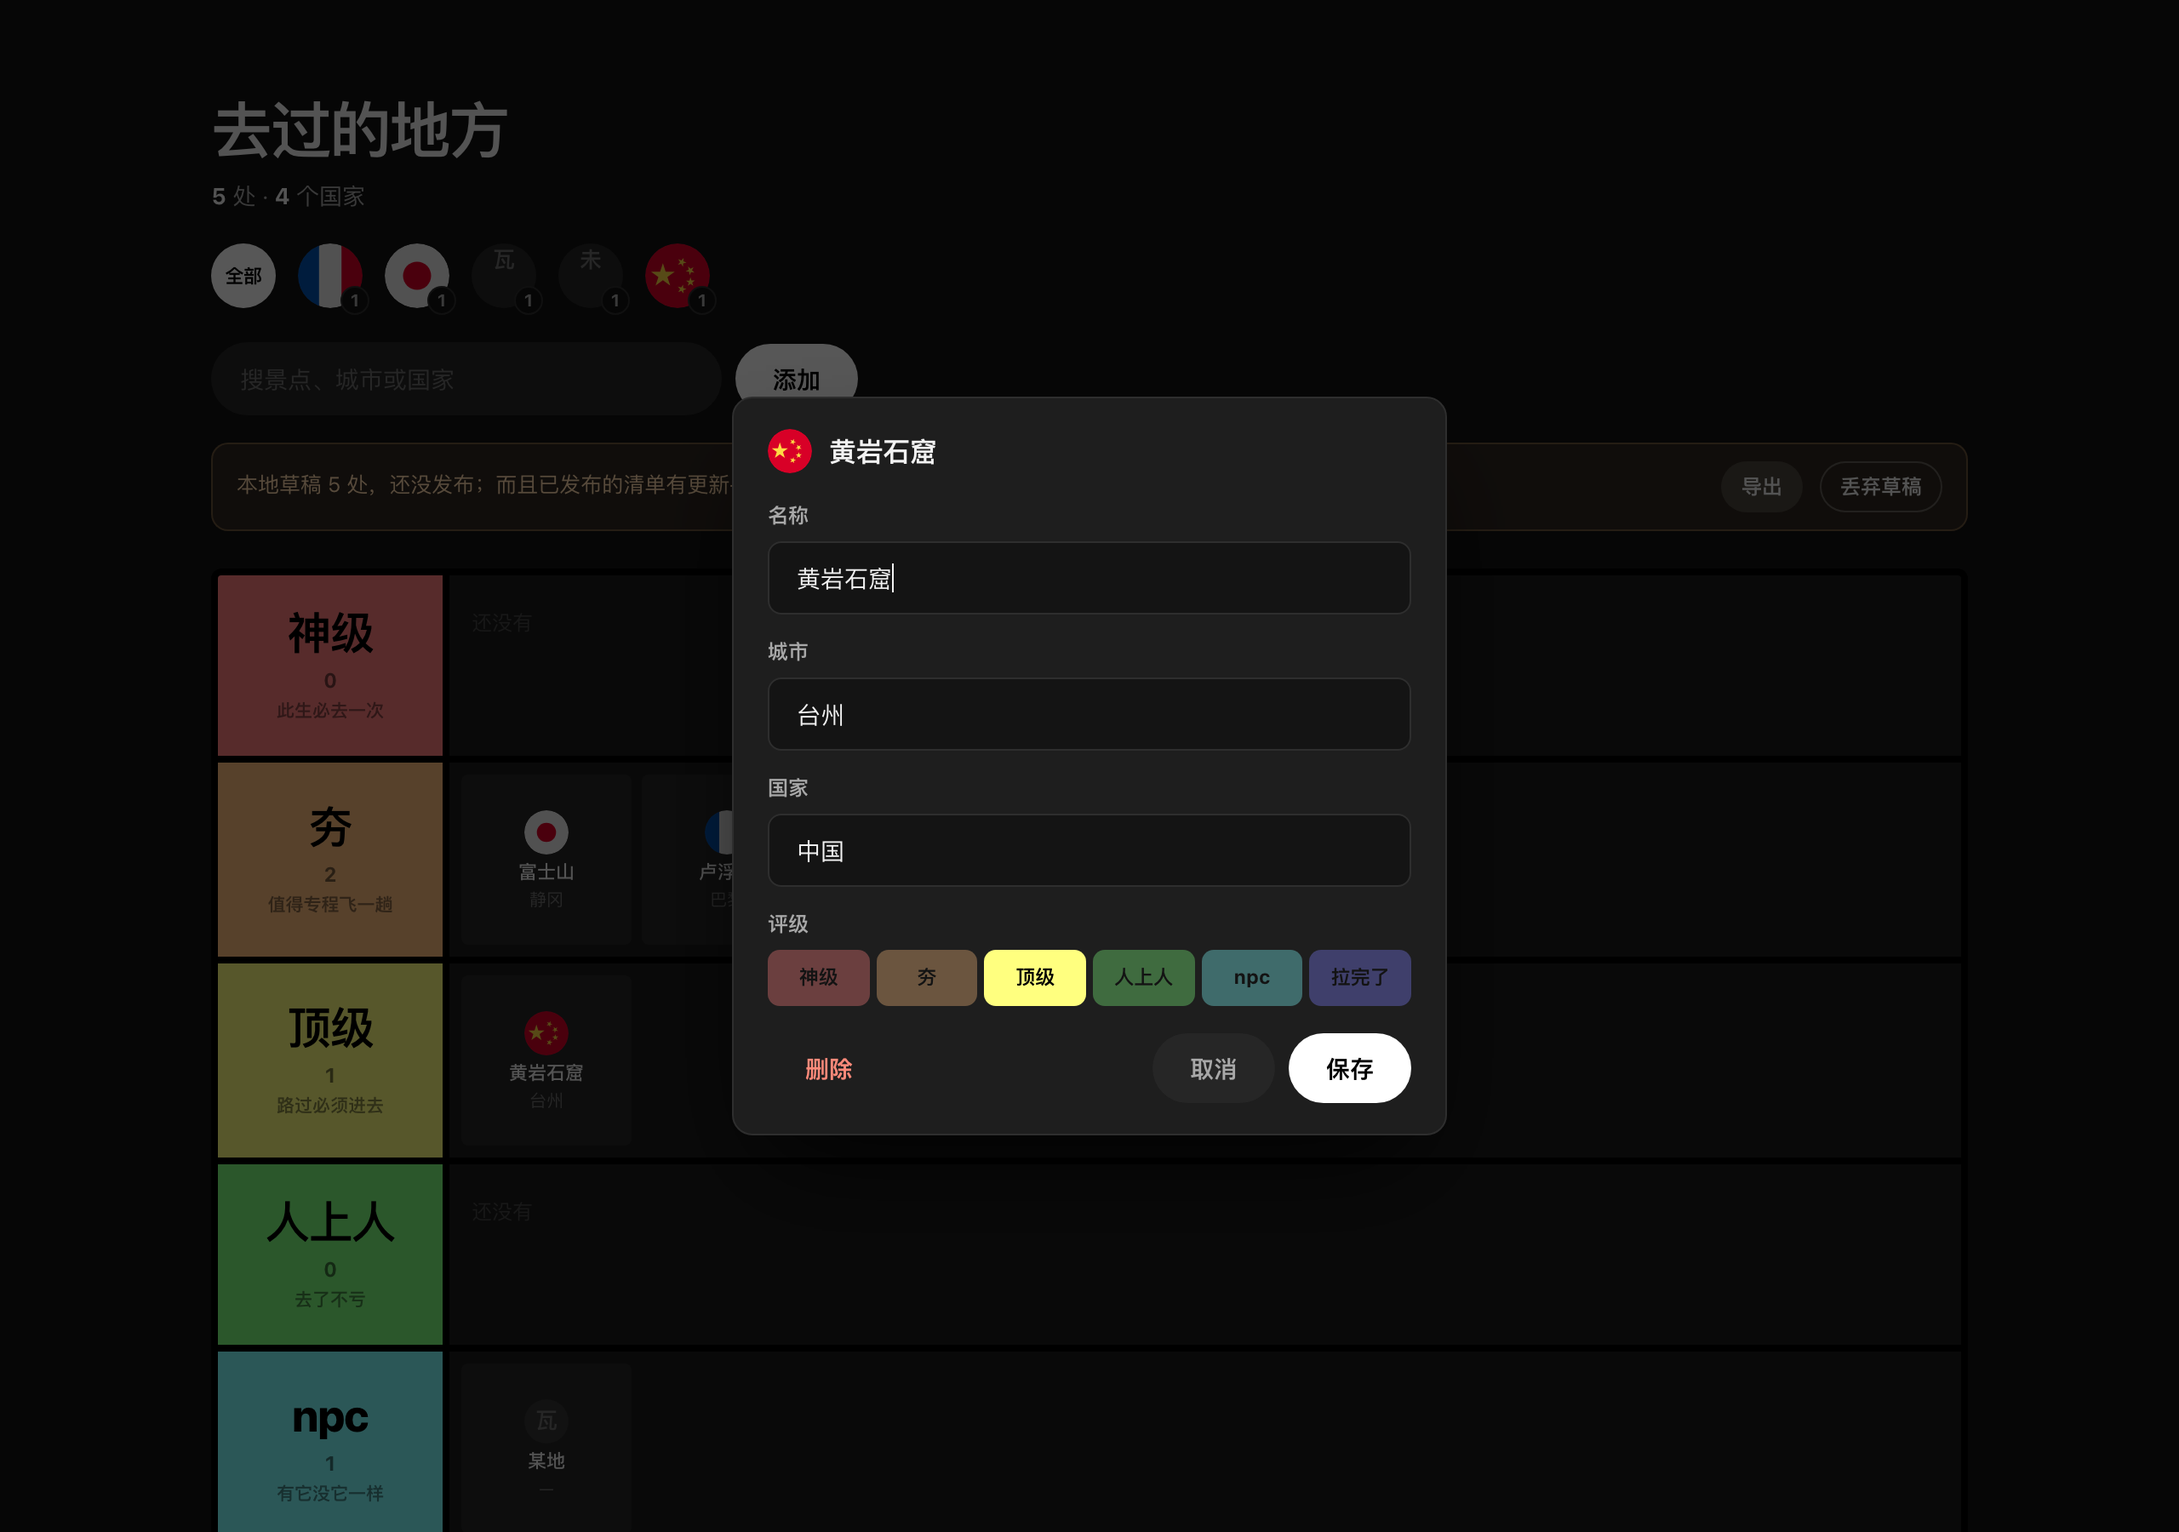
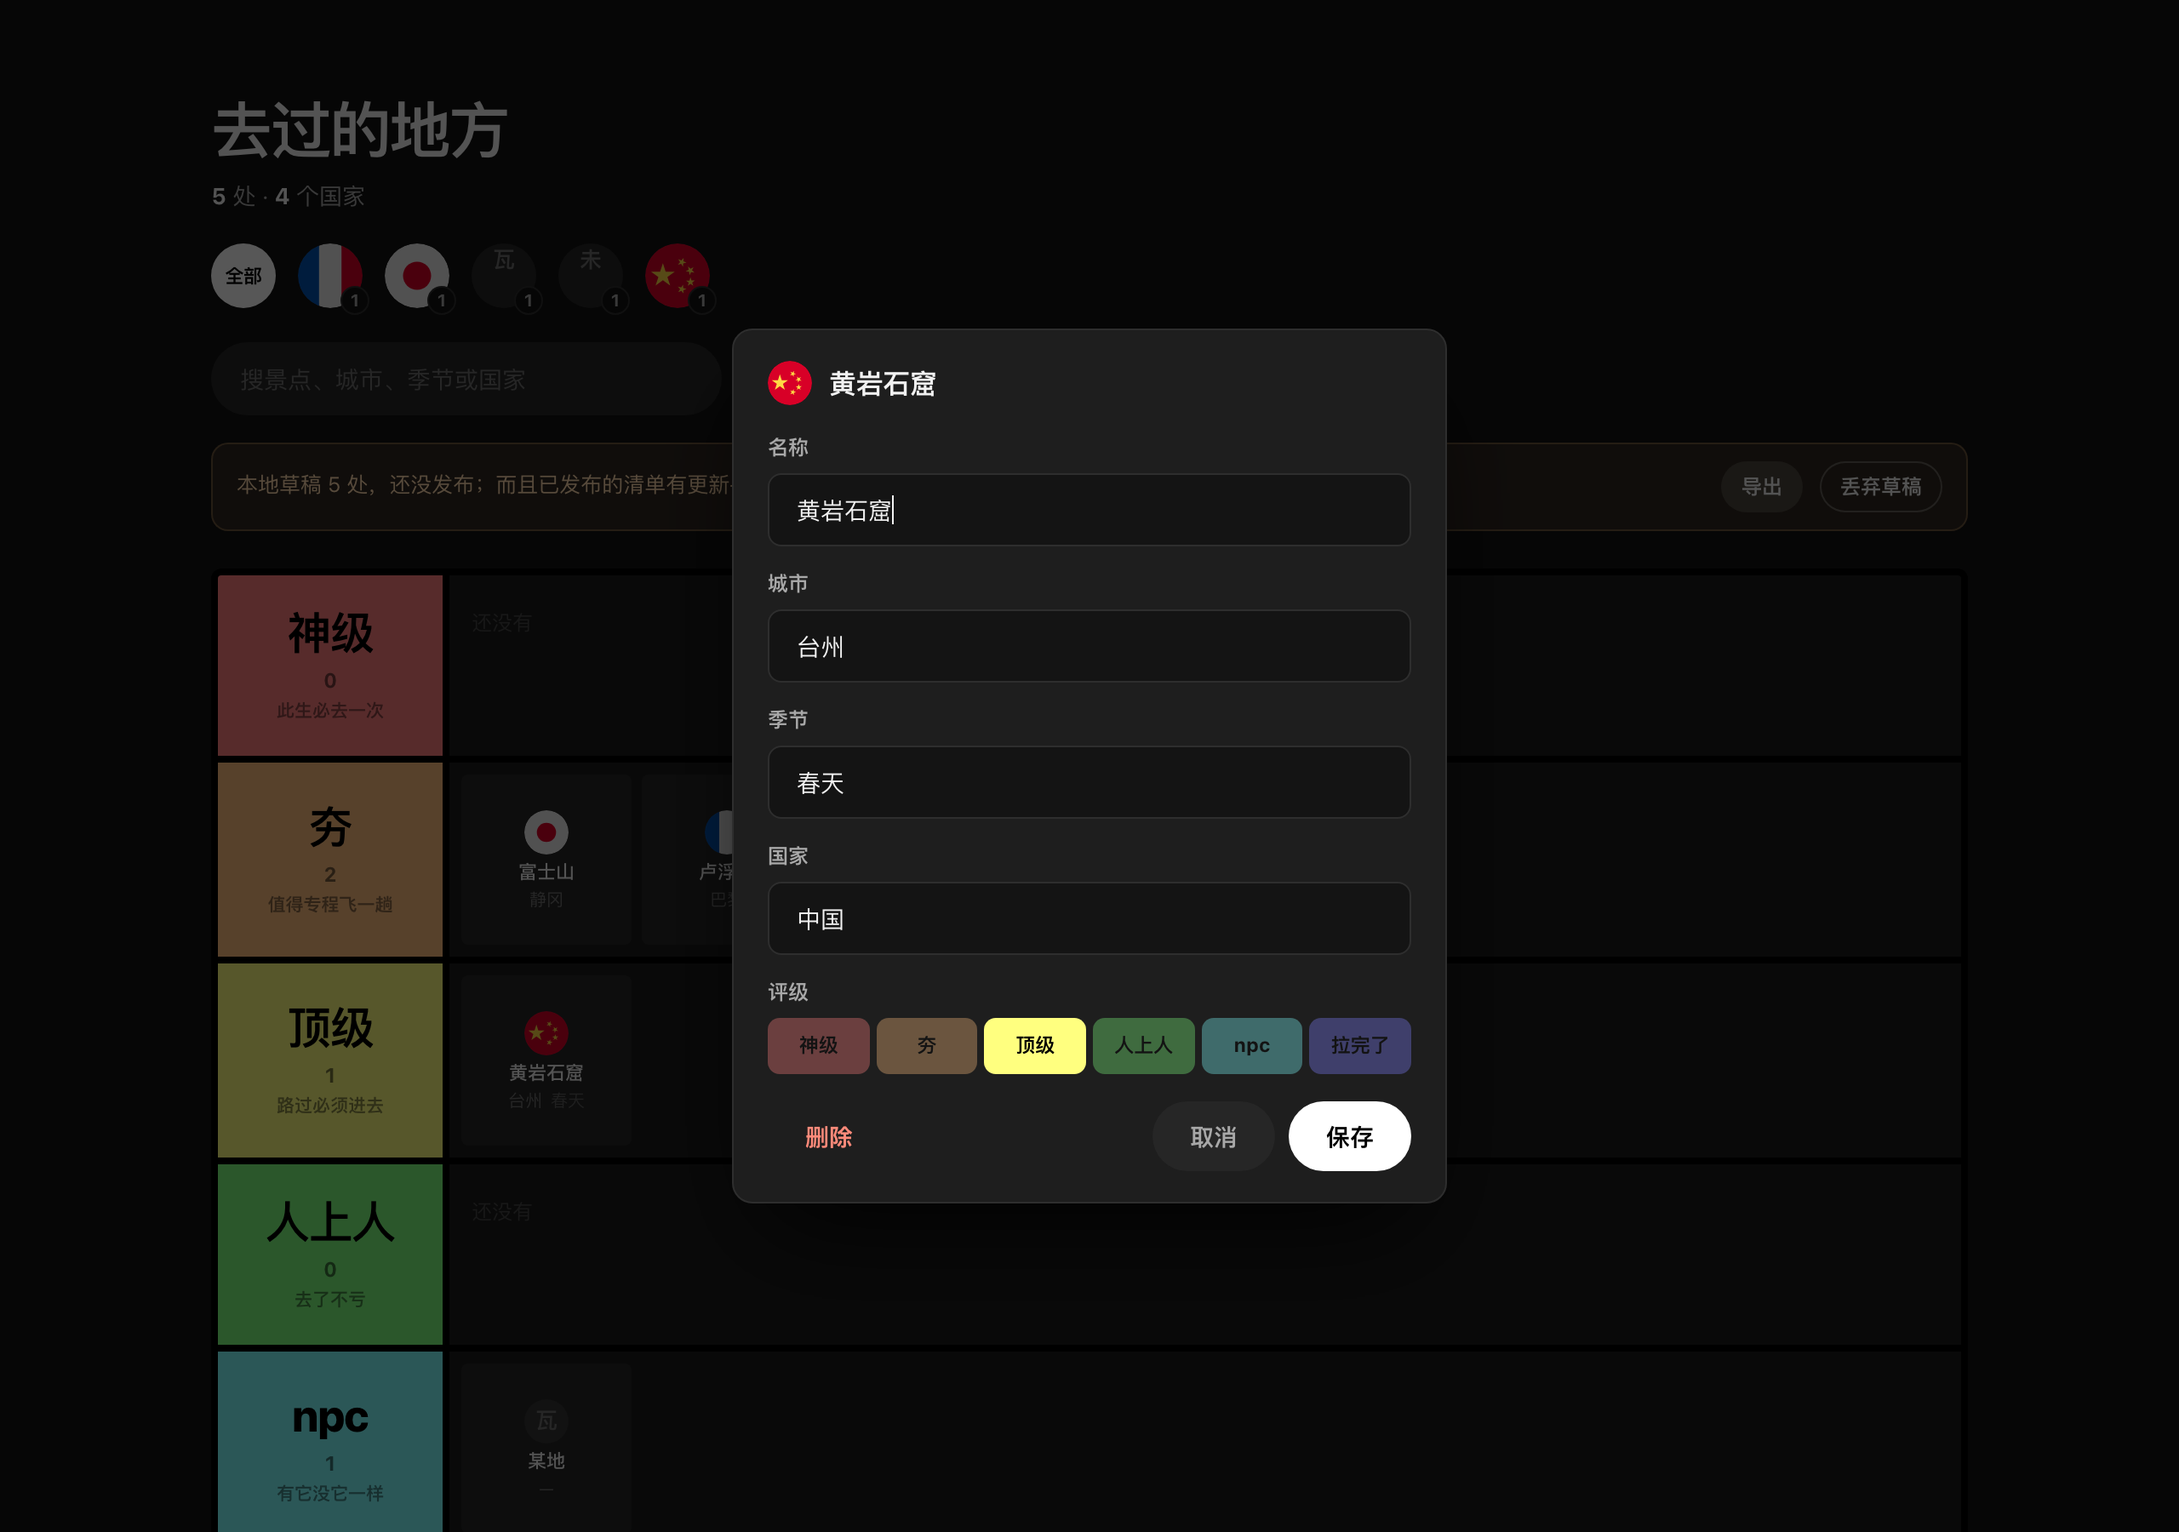
季节拆成独立字段
名字里的括号标注改成 season 字段，名称恢复干净：
  美瑛的圣诞树与孤独的树（冬天下雪） → 名称 + 季节「冬天下雪」
  阿尔山国家公园（秋天）             → 名称 + 季节「秋天」
  额尔古纳湿地（秋天）               → 名称 + 季节「秋天」

- 方块上季节跟在城市后面，同一行、更淡，没填就不显示
- 弹窗加「季节」输入框；搜索把季节一并算进去
- 导出的 spots.js 带 season；草稿同步
- 老数据迁移：名字末尾形如（xx）的会自动拆成 season，不用手工改
- 录入模板加「季节」列，带春夏秋冬提示但不强制

测试加到 66 项全过。原「老数据迁移」那条断言写死了渲染顺序，
新测试条目档位更高插到前面就误报，已改为按内容匹配。

Changed region(s): [[0.3438, 0.4667, 0.6562, 0.7778], [0.3125, 0.2178, 0.4375, 0.4356], [0.375, 0.4356, 0.4062, 0.4667]]

diff --git a/index.html b/index.html
@@ -116,6 +116,7 @@
     font-size:10px;line-height:1.2;color:var(--ink-3);text-align:center;width:100%;
     white-space:nowrap;overflow:hidden;text-overflow:ellipsis;
   }
+  .tile .ct i{font-style:normal;margin-left:5px;opacity:.72}
   .ph{display:grid;place-items:center;font-size:13px;font-weight:700;color:var(--ink-3)}
   .empty{align-self:center;font-size:12px;color:#454545;padding-left:6px}
 
@@ -183,7 +184,7 @@
     <p class="counts"><b id="n-spots">0</b> 处 · <b id="n-countries">0</b> 个国家</p>
     <div class="wall" id="wall" role="group" aria-label="按国家筛选"></div>
     <div class="bar">
-      <input type="search" id="find" placeholder="搜景点、城市或国家" aria-label="搜索">
+      <input type="search" id="find" placeholder="搜景点、城市、季节或国家" aria-label="搜索">
       <button class="btn primary" id="add">添加</button>
     </div>
     <div class="draft" id="draft" hidden>
@@ -217,6 +218,10 @@
     <div class="field">
       <label for="f-city">城市</label>
       <input type="text" id="f-city" maxlength="24" placeholder="台州" autocomplete="off">
+    </div>
+    <div class="field">
+      <label for="f-season">季节</label>
+      <input type="text" id="f-season" maxlength="16" placeholder="秋天，可留空" autocomplete="off">
     </div>
     <div class="field">
       <label for="f-country">国家</label>
@@ -291,7 +296,8 @@
   var pick = "";
 
   function hashOf(list){
-    var str = JSON.stringify(list.map(function(x){ return [x.name, x.city, x.country, x.tier]; }));
+    var str = JSON.stringify(list.map(function(x){
+      return [x.name, x.city, x.season, x.country, x.tier]; }));
     var h = 5381;
     for(var i=0;i<str.length;i++){ h = ((h<<5) + h + str.charCodeAt(i)) | 0; }
     return String(h);
@@ -323,10 +329,17 @@
   function migrate(s){
     var legacy = String(s.where || s.place || "").trim();   /* 老字段形如「浙江 台州」 */
     var parts = legacy ? legacy.split(/[\s　]+/) : [];
+    var name = String(s.name || "未命名");
+    var season = String(s.season || "");
+    if(!season){                       /* 老数据把季节写在名字末尾的括号里 */
+      var m = name.match(/^(.*?)（([^（）]+)）$/);
+      if(m){ name = m[1]; season = m[2]; }
+    }
     return {
       id: s.id || ("p" + (++seq) + "-" + Math.random().toString(36).slice(2,6)),
-      name: String(s.name || "未命名"),
+      name: name,
       city: String(s.city || (parts.length ? parts[parts.length - 1] : "")),
+      season: season,
       country: String(s.country || (legacy ? "中国" : "")),
       tier: isTier(s.tier) ? s.tier : "npc"
     };
@@ -345,7 +358,7 @@
 
   function bare(list){
     return list.map(function(s){
-      return { name:s.name, city:s.city, country:s.country, tier:s.tier };
+      return { name:s.name, city:s.city, season:s.season, country:s.country, tier:s.tier };
     });
   }
 
@@ -358,6 +371,7 @@
            list.map(function(s){
              return '  { "name": ' + JSON.stringify(s.name) +
                     ', "city": ' + JSON.stringify(s.city) +
+                    ', "season": ' + JSON.stringify(s.season) +
                     ', "country": ' + JSON.stringify(s.country) +
                     ', "tier": ' + JSON.stringify(s.tier) + ' }';
            }).join(",\n") + "\n];\n";
@@ -413,7 +427,8 @@
     return spots.filter(function(s){
       if(pick && (s.country || "未填") !== pick) return false;
       if(!q) return true;
-      return (s.name + " " + s.city + " " + s.country).toLowerCase().indexOf(q) > -1;
+      return (s.name + " " + s.city + " " + s.season + " " + s.country)
+               .toLowerCase().indexOf(q) > -1;
     });
   }
 
@@ -426,12 +441,14 @@
       var tiles = mine.length
         ? mine.map(function(s){
             return '<button type="button" class="tile" data-open="' + s.id + '"' +
-              ' title="' + esc([s.name, s.city, s.country].filter(Boolean).join("　")) + '"' +
+              ' title="' + esc([s.name, s.city, s.season, s.country].filter(Boolean).join("　")) + '"' +
               ' aria-label="' + esc(s.name + "，" +
-                  [s.city, s.country].filter(Boolean).join(" ") + "，" + t.name + "，打开详情") + '">' +
+                  [s.city, s.season, s.country].filter(Boolean).join(" ") + "，" + t.name + "，打开详情") + '">' +
               flagHtml(s.country, "flag", 28) +
               '<span class="nm">' + esc(s.name) + '</span>' +
-              '<span class="ct">' + esc(s.city || "—") + '</span>' +
+              '<span class="ct">' + esc(s.city || "—") +
+                (s.season ? '<i>' + esc(s.season) + '</i>' : '') +
+              '</span>' +
             '</button>';
           }).join("")
         : '<p class="empty">' + (filtering ? "没有匹配的" : "还没有") + '</p>';
@@ -496,6 +513,7 @@
   // form.name 会被 HTMLFormElement 自身的 name 属性遮蔽，一律按 id 取
   var fName    = document.getElementById("f-name");
   var fCity    = document.getElementById("f-city");
+  var fSeason  = document.getElementById("f-season");
   var fCountry = document.getElementById("f-country");
   var killBtn  = document.getElementById("kill");
   var dlgFlag  = document.getElementById("dlg-flag");
@@ -520,6 +538,7 @@
     document.getElementById("dlg-title").textContent = spot ? spot.name : "添加景点";
     fName.value    = spot ? spot.name    : "";
     fCity.value    = spot ? spot.city    : "";
+    fSeason.value  = spot ? spot.season  : "";
     fCountry.value = spot ? spot.country : "";
     var r = form.querySelector('input[name=tier][value="' + (spot ? spot.tier : "top") + '"]');
     if(r) r.checked = true;
@@ -533,6 +552,7 @@
     var data = {
       name:    fName.value.trim(),
       city:    fCity.value.trim(),
+      season:  fSeason.value.trim(),
       country: fCountry.value.trim(),
       tier:    (form.querySelector("input[name=tier]:checked")||{}).value || "npc"
     };

diff --git a/spots.js b/spots.js
@@ -1,28 +1,28 @@
 /* 景点清单。改这个文件就能更新网站，不用碰 index.html。
    英语国家的景点用英文原名；中国、日本的用中文。
-   季节标注统一写在括号里。
+   season 选填，用来标注去的季节；不填就留空字符串。
    tier 取 shen / hang / top / ren / npc / la
    （神级 / 夯 / 顶级 / 人上人 / npc / 拉完了） */
 window.SPOTS = [
-  { "name": "黄岩石窟"                          , "city": "台州"        , "country": "中国"  , "tier": "top" },
-  { "name": "云冈石窟"                          , "city": "大同"        , "country": "中国"  , "tier": "top" },
-  { "name": "悬空寺"                            , "city": "大同"        , "country": "中国"  , "tier": "hang" },
-  { "name": "长野户隐神社"                      , "city": "长野"        , "country": "日本"  , "tier": "ren" },
-  { "name": "金泽城"                            , "city": "金泽"        , "country": "日本"  , "tier": "top" },
-  { "name": "金泽兼六园"                        , "city": "金泽"        , "country": "日本"  , "tier": "npc" },
-  { "name": "河口湖"                            , "city": "富士吉田"    , "country": "日本"  , "tier": "npc" },
-  { "name": "鹤见台"                            , "city": "钏路"        , "country": "日本"  , "tier": "top" },
-  { "name": "阿寒湖"                            , "city": "钏路"        , "country": "日本"  , "tier": "ren" },
-  { "name": "Point Reyes National Seashore"     , "city": "Marin County", "country": "美国"  , "tier": "top" },
-  { "name": "Lake Wanaka"                       , "city": "Wanaka"      , "country": "新西兰", "tier": "top" },
-  { "name": "Lake Pukaki"                       , "city": "Twizel"      , "country": "新西兰", "tier": "hang" },
-  { "name": "Lake Tekapo"                       , "city": "Tekapo"      , "country": "新西兰", "tier": "shen" },
-  { "name": "美瑛的圣诞树与孤独的树（冬天下雪）", "city": "旭川"        , "country": "日本"  , "tier": "hang" },
-  { "name": "虎跳峡"                            , "city": "丽江"        , "country": "中国"  , "tier": "top" },
-  { "name": "玉龙雪山"                          , "city": "丽江"        , "country": "中国"  , "tier": "top" },
-  { "name": "蓝月谷"                            , "city": "丽江"        , "country": "中国"  , "tier": "top" },
-  { "name": "洱海"                              , "city": "大理"        , "country": "中国"  , "tier": "top" },
-  { "name": "阿尔山国家公园（秋天）"            , "city": "阿尔山"      , "country": "中国"  , "tier": "hang" },
-  { "name": "莫尔道嘎公园"                      , "city": "额尔古纳"    , "country": "中国"  , "tier": "top" },
-  { "name": "额尔古纳湿地（秋天）"              , "city": "额尔古纳"    , "country": "中国"  , "tier": "hang" }
+  { "name": "黄岩石窟"                     , "city": "台州"        , "season": ""        , "country": "中国"  , "tier": "top" },
+  { "name": "云冈石窟"                     , "city": "大同"        , "season": ""        , "country": "中国"  , "tier": "top" },
+  { "name": "悬空寺"                       , "city": "大同"        , "season": ""        , "country": "中国"  , "tier": "hang" },
+  { "name": "长野户隐神社"                 , "city": "长野"        , "season": ""        , "country": "日本"  , "tier": "ren" },
+  { "name": "金泽城"                       , "city": "金泽"        , "season": ""        , "country": "日本"  , "tier": "top" },
+  { "name": "金泽兼六园"                   , "city": "金泽"        , "season": ""        , "country": "日本"  , "tier": "npc" },
+  { "name": "河口湖"                       , "city": "富士吉田"    , "season": ""        , "country": "日本"  , "tier": "npc" },
+  { "name": "鹤见台"                       , "city": "钏路"        , "season": ""        , "country": "日本"  , "tier": "top" },
+  { "name": "阿寒湖"                       , "city": "钏路"        , "season": ""        , "country": "日本"  , "tier": "ren" },
+  { "name": "Point Reyes National Seashore", "city": "Marin County", "season": ""        , "country": "美国"  , "tier": "top" },
+  { "name": "Lake Wanaka"                  , "city": "Wanaka"      , "season": ""        , "country": "新西兰", "tier": "top" },
+  { "name": "Lake Pukaki"                  , "city": "Twizel"      , "season": ""        , "country": "新西兰", "tier": "hang" },
+  { "name": "Lake Tekapo"                  , "city": "Tekapo"      , "season": ""        , "country": "新西兰", "tier": "shen" },
+  { "name": "美瑛的圣诞树与孤独的树"       , "city": "旭川"        , "season": "冬天下雪", "country": "日本"  , "tier": "hang" },
+  { "name": "虎跳峡"                       , "city": "丽江"        , "season": ""        , "country": "中国"  , "tier": "top" },
+  { "name": "玉龙雪山"                     , "city": "丽江"        , "season": ""        , "country": "中国"  , "tier": "top" },
+  { "name": "蓝月谷"                       , "city": "丽江"        , "season": ""        , "country": "中国"  , "tier": "top" },
+  { "name": "洱海"                         , "city": "大理"        , "season": ""        , "country": "中国"  , "tier": "top" },
+  { "name": "阿尔山国家公园"               , "city": "阿尔山"      , "season": "秋天"    , "country": "中国"  , "tier": "hang" },
+  { "name": "莫尔道嘎公园"                 , "city": "额尔古纳"    , "season": ""        , "country": "中国"  , "tier": "top" },
+  { "name": "额尔古纳湿地"                 , "city": "额尔古纳"    , "season": "秋天"    , "country": "中国"  , "tier": "hang" }
 ];

diff --git a/README.md b/README.md
@@ -8,7 +8,7 @@
 
 > 上图是示例渲染。真实清单在 `spots.js` 里。
 
-每条记录三个字段：**名称**、**城市**和**国家**。
+每条记录四个字段：**名称**、**城市**、**季节**（选填）和**国家**。
 
 英语国家的景点用英文原名（Lake Tekapo / Point Reyes National Seashore），中国和日本的用中文。
 
@@ -42,7 +42,7 @@
 | 添加 | 右上角「添加」 |
 | 看详情 / 改 / 删 | 点方块本身，在弹窗里操作 |
 | 按国家筛选 | 点顶部的国旗，再点一次取消 |
-| 搜索 | 搜索框，名称、城市、国家都能搜 |
+| 搜索 | 搜索框，名称、城市、季节、国家都能搜 |
 | 备份 / 恢复 | 页脚的导出、导入 |
 
 填国家时输入框带候选列表，认得出的国家会在弹窗标题旁实时显示国旗。
@@ -54,7 +54,7 @@
 
 ```js
 window.SPOTS = [
-  { "name": "黄岩石窟", "city": "台州", "country": "中国", "tier": "top" }
+  { "name": "黄岩石窟", "city": "台州", "season": "", "country": "中国", "tier": "top" }
 ];
 ```
 
